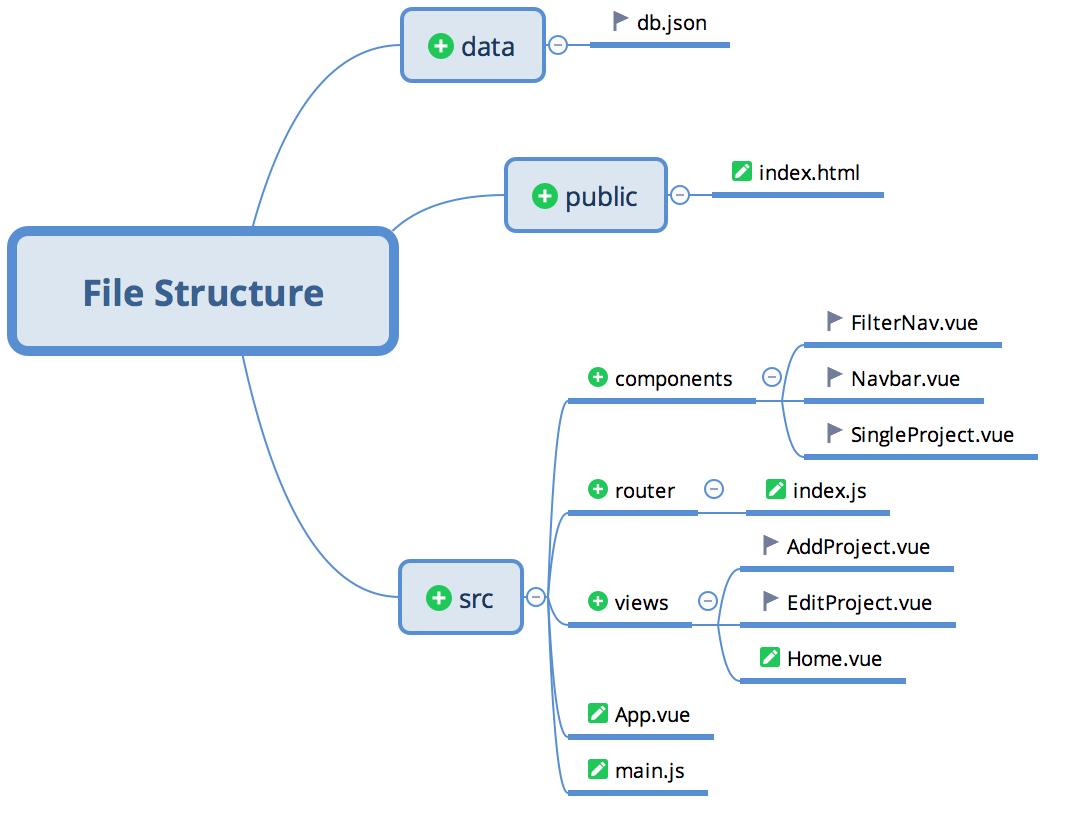
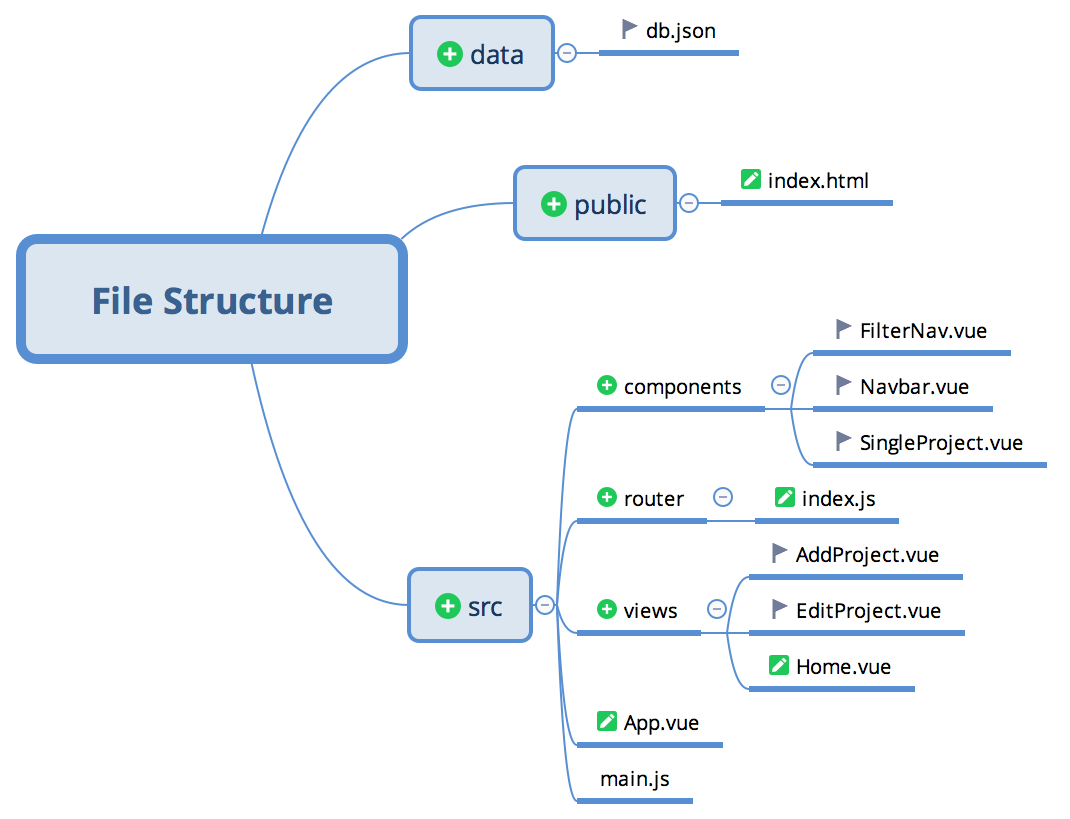
- Added file structure and other descriptions.

diff --git a/README.md b/README.md
@@ -59,8 +59,51 @@ Using Vue 3, the project consists of a root (`App.vue`, as always) and three chi
 
 <img src="./pics/FileStructure.png"  />
 
+The directory tree was automatically built by the _Vue CLI_. The `data` folder has added to host the database file. In the Figure above, the files marked with a dark gray flag means that we created the file in for the project, whereas those marked with a green pencil means that we updated the existent file for the purpose of the project.
+
+We updated the `public/index.html` file to link material icons we used in the project. We updated `router/index.js` to set the appropriate route configuration for _Vue Router_. We updated the `Home` file to represent the main page of the project, including both structure and formatting. The `App` file aggregates the `Navbar` and the router view. 
+
 ## Dependencies
+
+The project has two main dependencies. First, the _View Router_ that is automatically added during the project creation using the _Vue CLI_. Second, the _json-server_ is used to simulate a local endpoint for the database. The database is just a file in the file structure as can be seen in the file structure descripption.
 
 ## Data
 
+```json
+{
+  "projects": [
+    {
+      "id": 1,
+      "title": "Create new homepage banner",
+      "details": "Lorem ipsum",
+      "complete": true
+    }
+  ]
+}
+```
+
+The _json-server_ uses a single JSON file to represent the data in the database. As one can see, there are four attributes. The `id` is automatically created by the _json-server_ when inserting new data. During the project execution, the file is updated as operations (add, update, delete) are performed.
+
 ## Running the Project Locally
+
+To run the project, ensure that you have NPM installed. You also need the _json-server_ installed globally before starting.
+
+1. Clone the project locally
+
+```
+git clone https://github.com/gabrielcostasilva/project-planner.git
+```
+
+2. In the project folder, start the _json-server_
+
+```
+json-server --watch data/db.json
+```
+
+3. Open another terminal. In the project folder, start the project.
+
+```
+npm run serve
+```
+
+4. Access the app with your browser at `http://localhost:8080`
